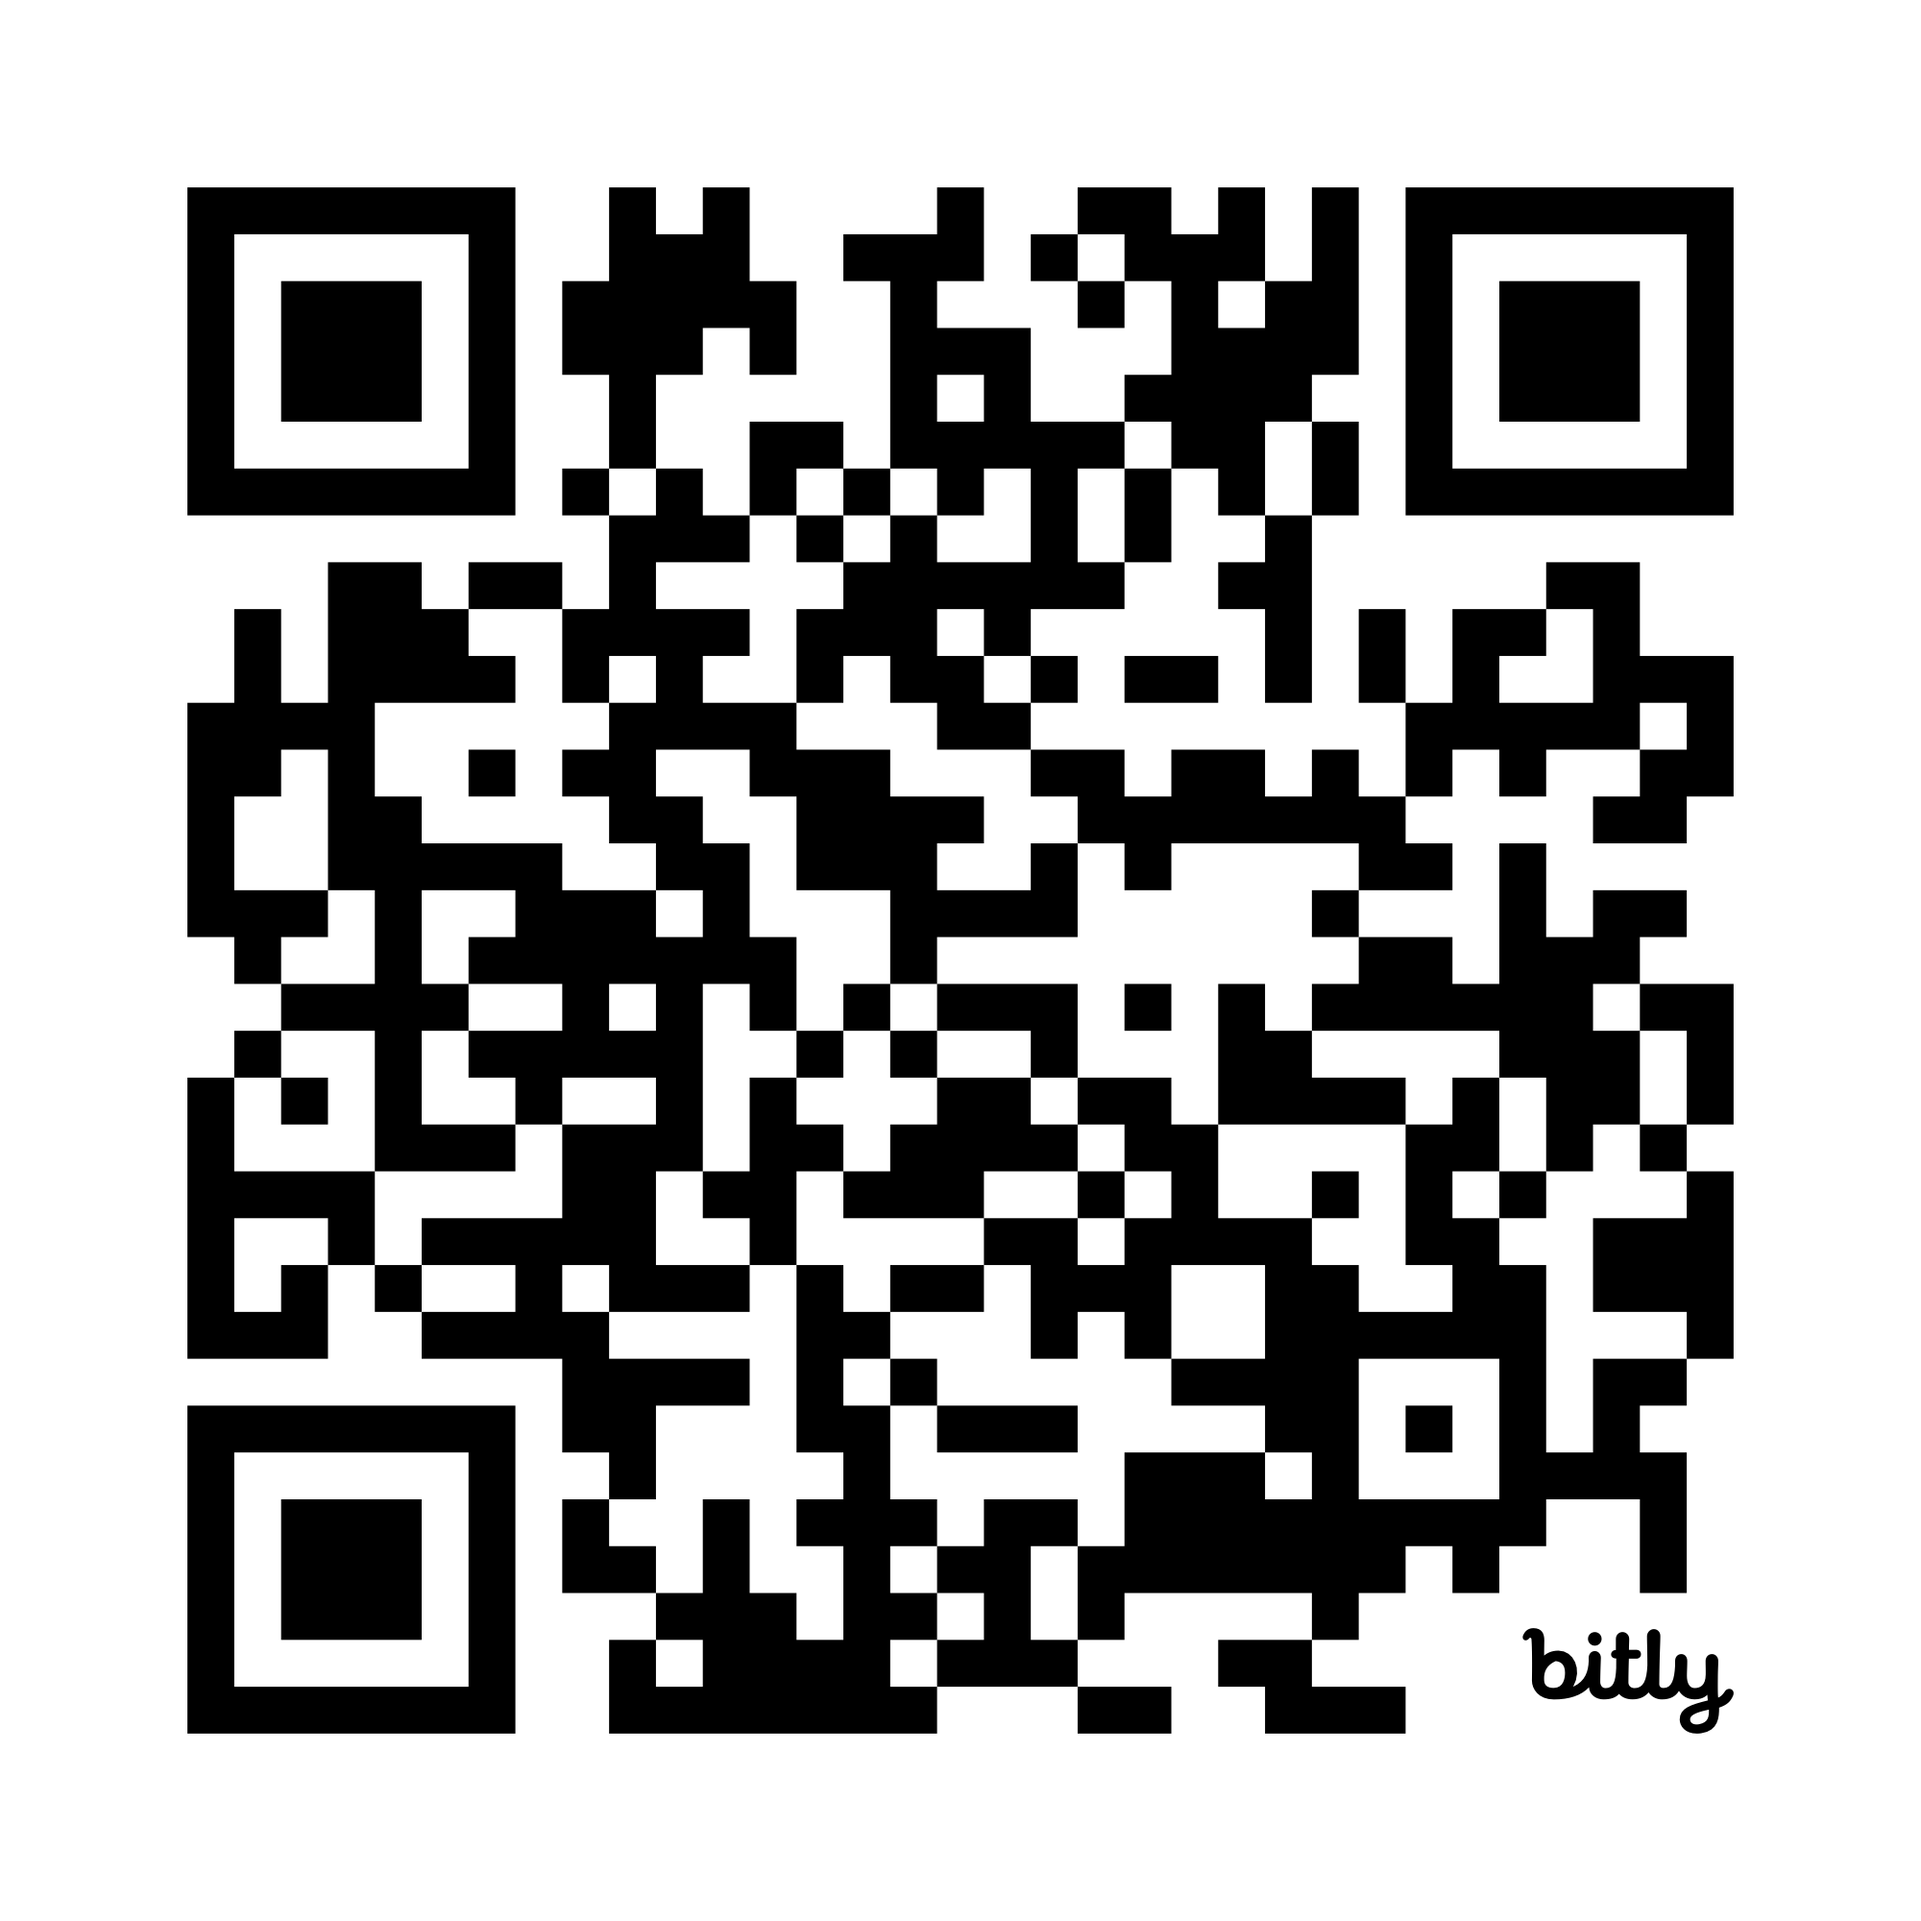
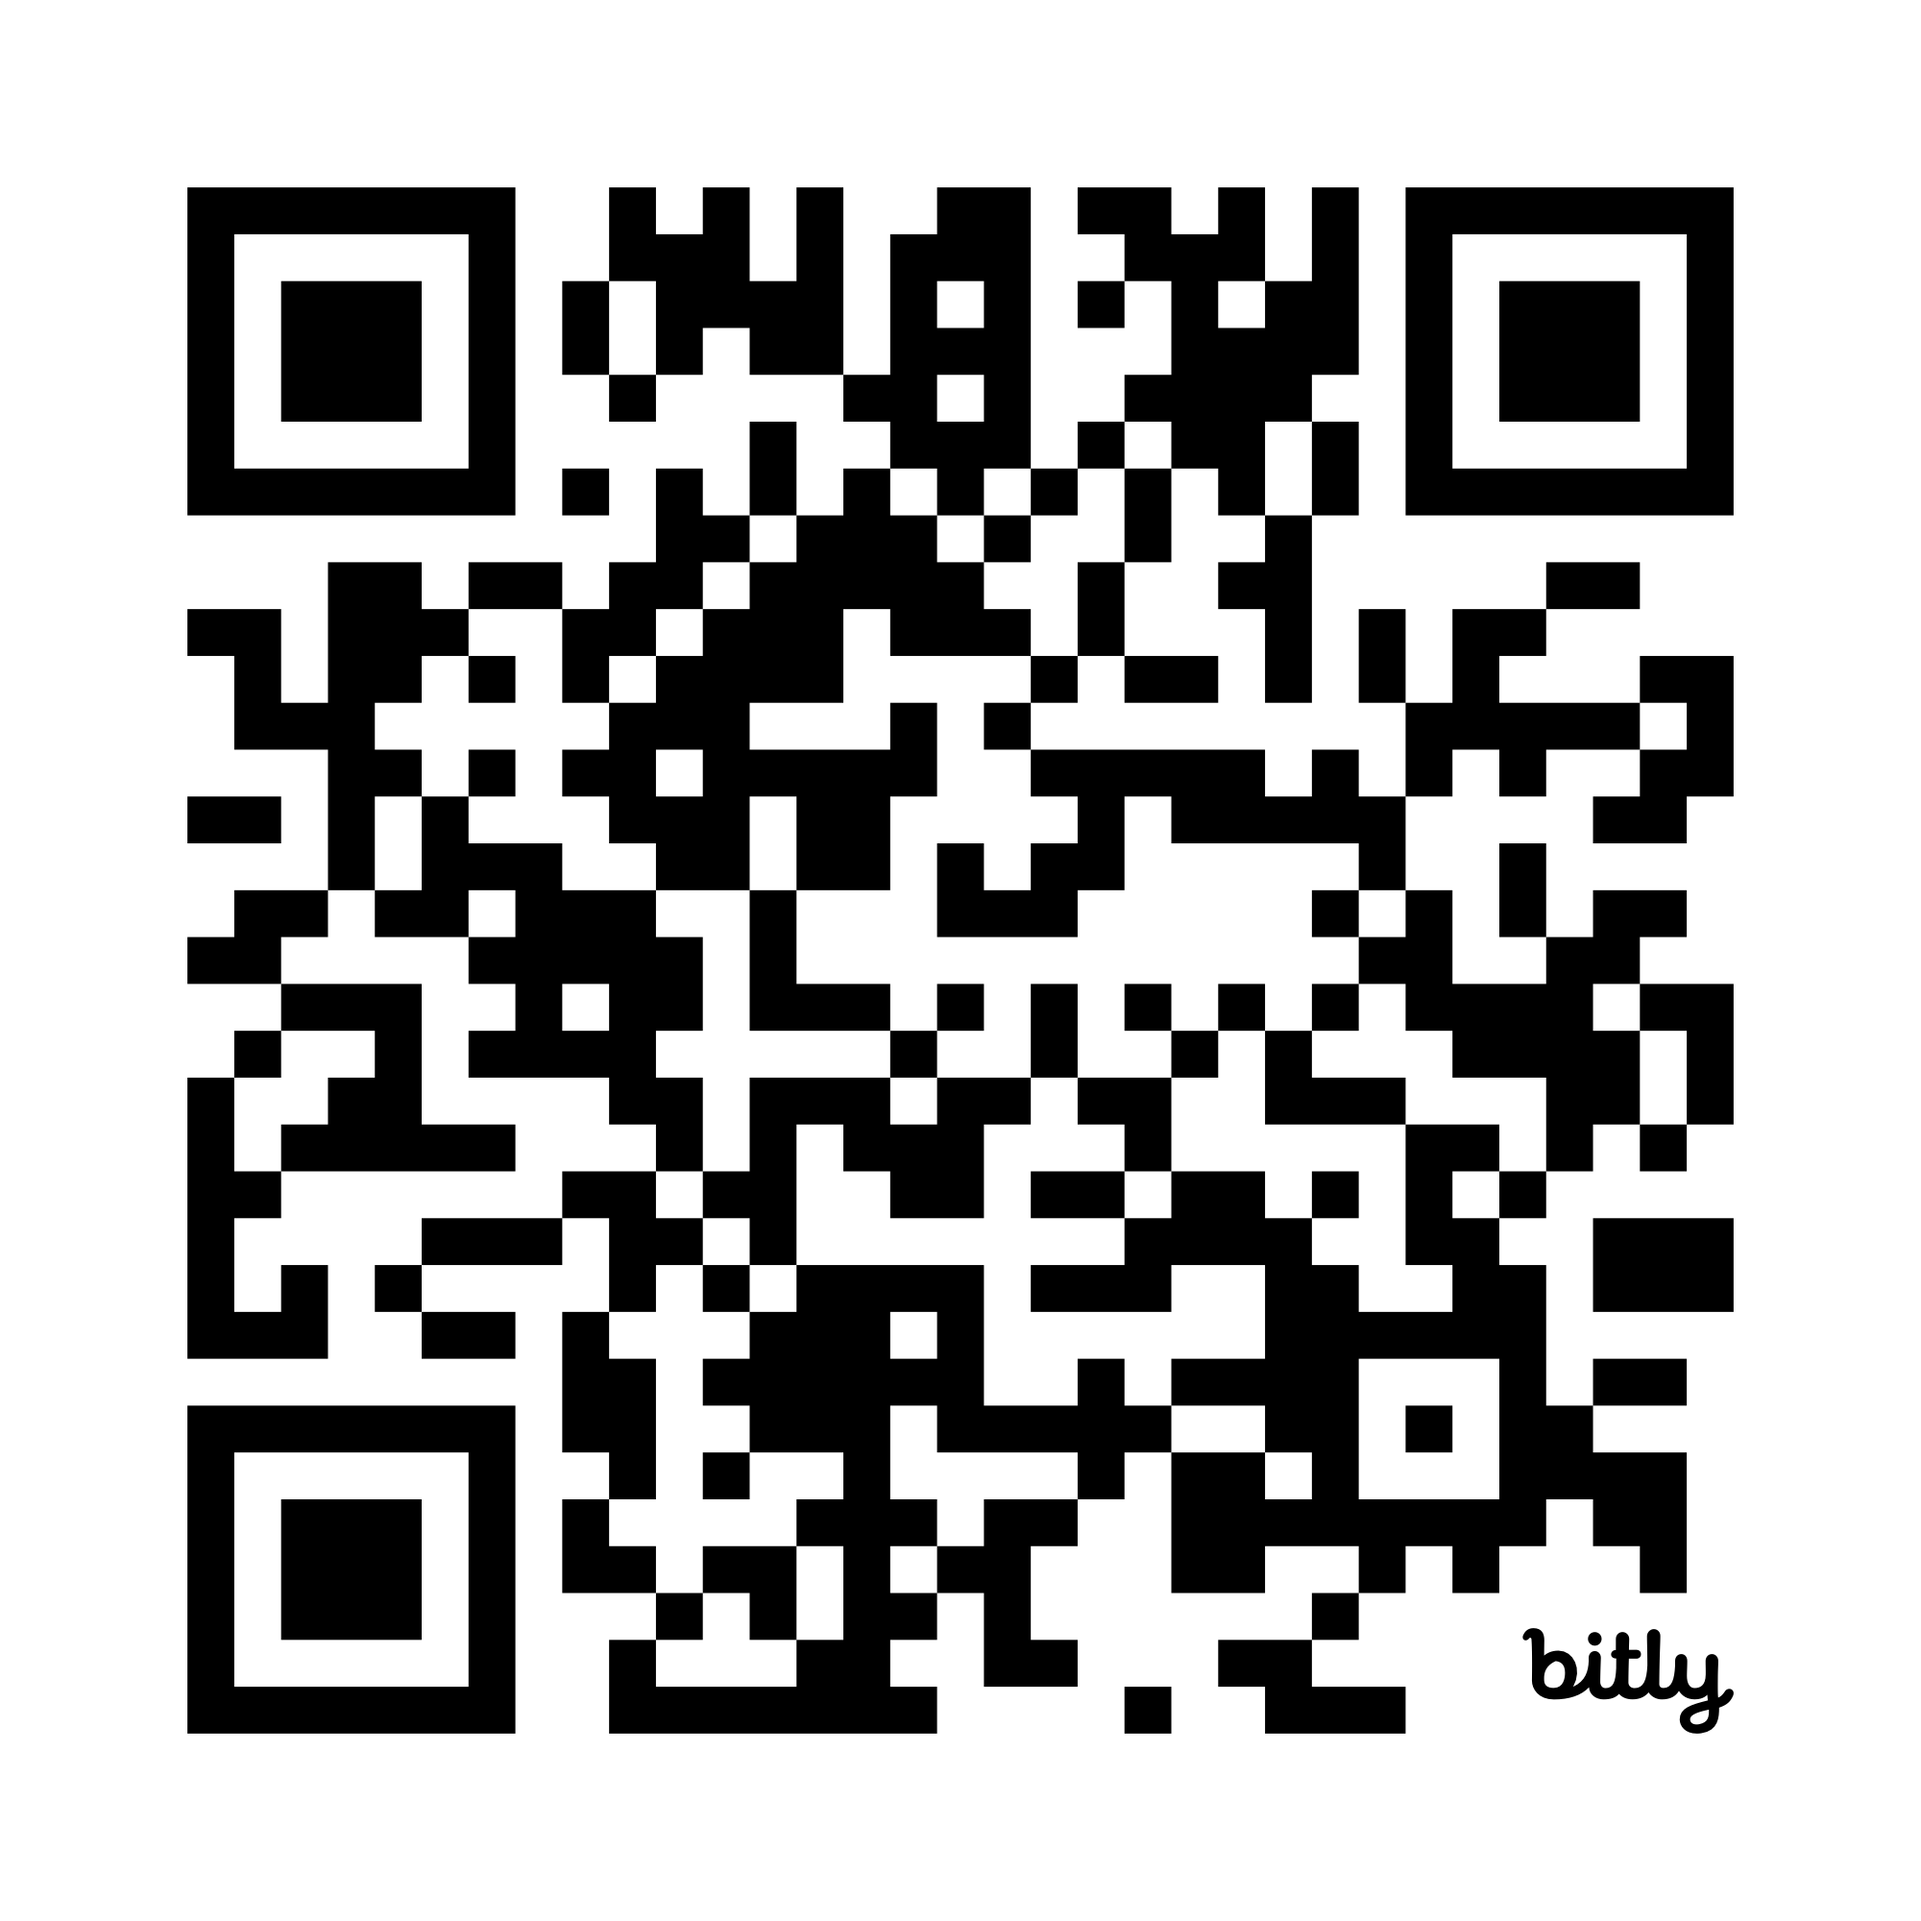
change in qr

diff --git a/prob.html b/prob.html
@@ -86,7 +86,7 @@
       </p>
       <p>
         You can also evaluate our website using this
-        <a href="http://bit.ly/3WA0uzt" target="_blank">link</a> or scan the QR
+        <a href="https://bit.ly/4ok3PPg" target="_blank">link</a> or scan the QR
         code below.
       </p>
       <img
